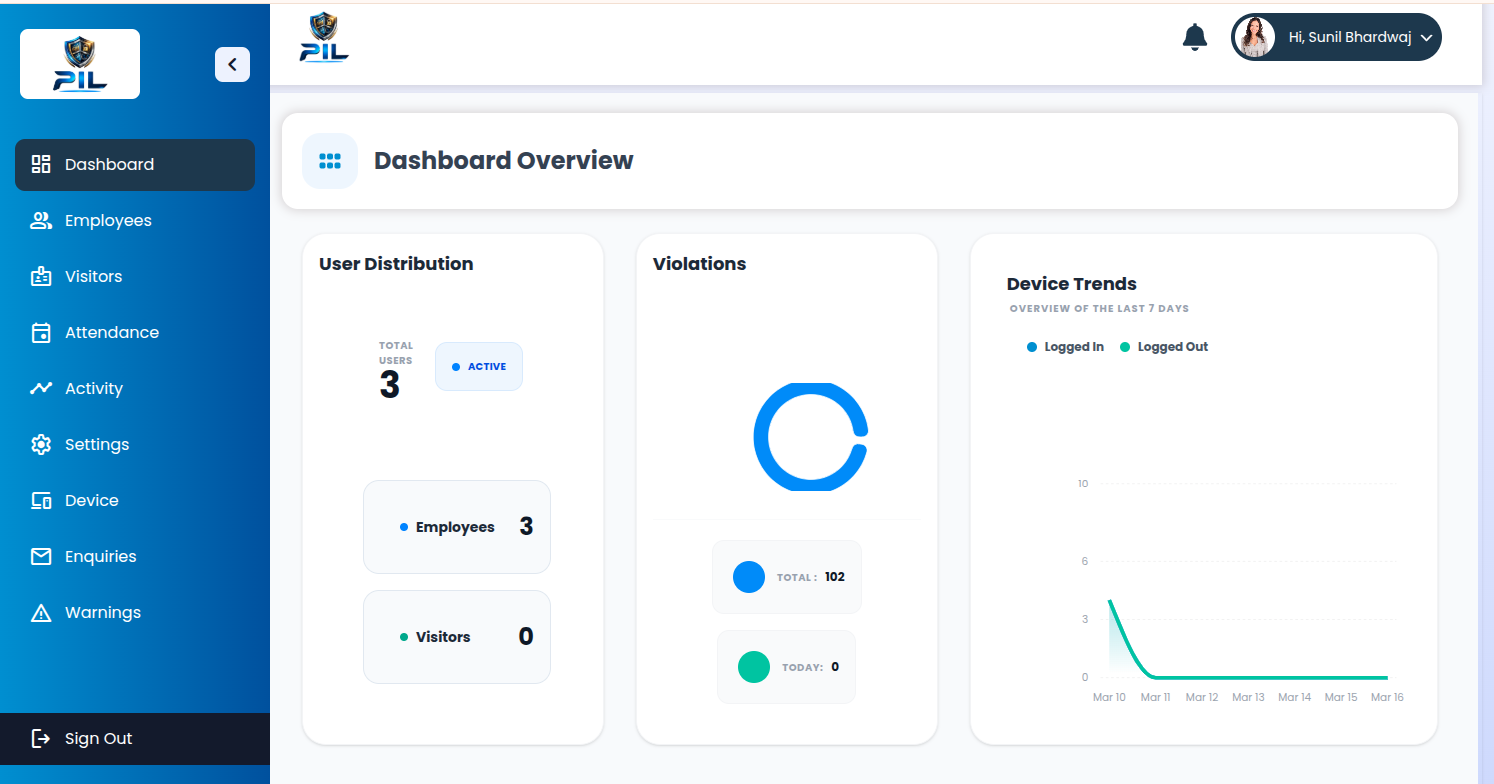
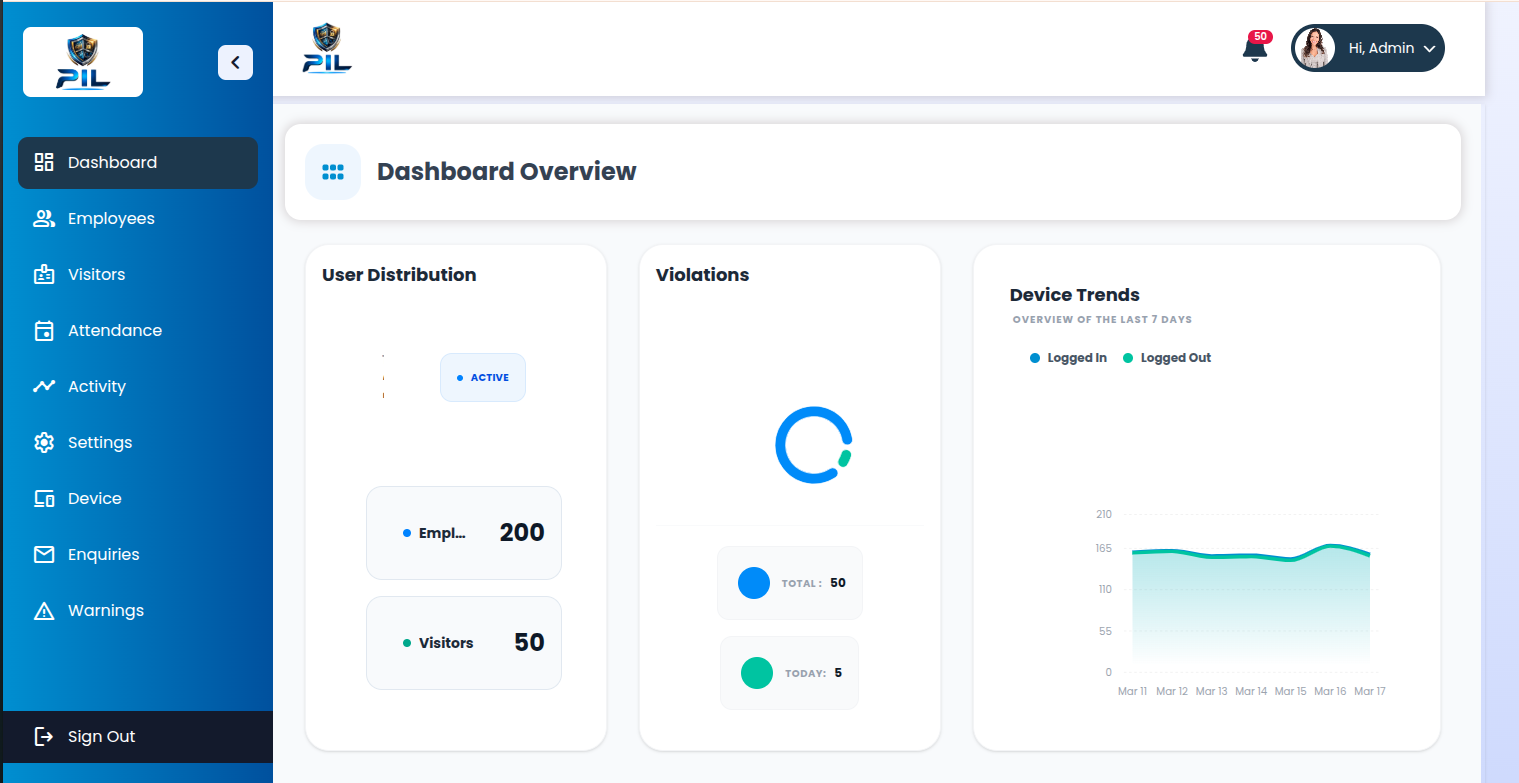
landing page dashboard image updated

diff --git a/client/src/SuperAdmin/Dashboard.js b/client/src/SuperAdmin/Dashboard.js
@@ -64,7 +64,7 @@ const SuperAdminDashboard = () => {
   }, 0);
 
   const deviceTrendsAxisMax = (() => {
-    const target = Math.max(1, maxDeviceTrendsValue * 2);
+    const target = Math.max(1, maxDeviceTrendsValue * 1.2);
     if (target <= 10) return 10;
     if (target <= 16) return 16;
     if (target <= 20) return 20;
@@ -100,19 +100,19 @@ const SuperAdminDashboard = () => {
             {/* User Statistics Card */}
             <div className="lg:col-span-4 bg-white p-4 sm:p-5 rounded-3xl shadow-sm border border-gray-100 flex flex-col min-h-[260px] overflow-hidden">
               <h3 className="text-lg font-bold text-gray-800 mb-2">User Distribution</h3>
-              <div className="flex-1 flex flex-col gap-3 py-1 justify-center">
-                <div className="flex flex-row items-center justify-between px-1 gap-3 mb-1">
+              <div className="flex flex-col gap-4 py-1 justify-start">
+                <div className="flex flex-row items-center justify-between px-1 gap-1 sm:gap-3">
                   <div className="flex flex-col min-w-0">
-                    <span className="text-[10px] text-gray-400 font-black uppercase tracking-wider mb-0.5">
+                    <span className="text-[10px] sm:text-xs text-gray-400 font-black uppercase tracking-wider mb-0.5 truncate">
                       Total Users
                     </span>
-                    <h4 className="text-3xl sm:text-4xl font-black text-gray-900 leading-none">
+                    <h4 className="text-2xl sm:text-3xl lg:text-4xl font-black text-gray-900 leading-none truncate">
                       {(summary.employees || 0) + (summary.visitors || 0)}
                     </h4>
                   </div>
                   <div className="flex items-center shrink-0">
-                    <div className="flex items-center gap-1.5 sm:gap-2 bg-blue-50 px-2 sm:px-3 py-1 sm:py-1.5 rounded-xl border border-blue-100">
-                      <span className="w-1.5 sm:w-2 h-1.5 sm:h-2 rounded-full bg-blue-500"></span>
+                    <div className="flex items-center gap-1 sm:gap-2 bg-blue-50 px-2 py-1 rounded-xl border border-blue-100">
+                      <span className="w-1.5 h-1.5 rounded-full bg-blue-500 shrink-0"></span>
                       <span className="text-[9px] sm:text-[10px] text-blue-700 font-black uppercase tracking-wide">
                         Active
                       </span>
@@ -120,27 +120,27 @@ const SuperAdminDashboard = () => {
                   </div>
                 </div>
 
-                <div className="flex flex-col gap-2 w-full">
-                  <div className="bg-slate-50 px-3 py-2.5 rounded-2xl border border-slate-200 flex justify-between items-center gap-3 overflow-x-auto md:overflow-hidden">
-                    <div className="flex items-center gap-2 shrink-0">
-                      <span className="w-2 h-2 rounded-full bg-blue-500 shrink-0"></span>
-                      <span className="text-xs sm:text-sm text-gray-800 font-bold whitespace-nowrap">
+                <div className="flex flex-col gap-2 w-full mt-2">
+                  <div className="w-full bg-slate-50 px-2 sm:px-3 py-2 sm:py-2.5 rounded-2xl border border-slate-200 flex justify-between items-center gap-1.5 sm:gap-3 overflow-hidden">
+                    <div className="flex items-center gap-1.5 sm:gap-2 min-w-0">
+                      <span className="w-1.5 h-1.5 sm:w-2 sm:h-2 rounded-full bg-blue-500 shrink-0"></span>
+                      <span className="text-[11px] sm:text-sm text-gray-800 font-bold truncate">
                         Employees
                       </span>
                     </div>
-                    <span className="text-xl sm:text-2xl font-black text-gray-900 leading-none tabular-nums shrink-0">
+                    <span className="text-lg sm:text-xl lg:text-2xl font-black text-gray-900 leading-none tabular-nums shrink-0">
                       {summary.employees || 0}
                     </span>
                   </div>
 
-                  <div className="bg-slate-50 px-3 py-2.5 rounded-2xl border border-slate-200 flex justify-between items-center gap-3 overflow-x-auto md:overflow-hidden">
-                    <div className="flex items-center gap-2 shrink-0">
-                      <span className="w-2 h-2 rounded-full bg-[#00A88A] shrink-0"></span>
-                      <span className="text-xs sm:text-sm text-gray-800 font-bold whitespace-nowrap">
+                  <div className="w-full bg-slate-50 px-2 sm:px-3 py-2 sm:py-2.5 rounded-2xl border border-slate-200 flex justify-between items-center gap-1.5 sm:gap-3 overflow-hidden">
+                    <div className="flex items-center gap-1.5 sm:gap-2 min-w-0">
+                      <span className="w-1.5 h-1.5 sm:w-2 sm:h-2 rounded-full bg-[#00A88A] shrink-0"></span>
+                      <span className="text-[11px] sm:text-sm text-gray-800 font-bold truncate">
                         Visitors
                       </span>
                     </div>
-                    <span className="text-xl sm:text-2xl font-black text-gray-900 leading-none tabular-nums shrink-0">
+                    <span className="text-lg sm:text-xl lg:text-2xl font-black text-gray-900 leading-none tabular-nums shrink-0">
                       {summary.visitors || 0}
                     </span>
                   </div>
@@ -203,62 +203,62 @@ const SuperAdminDashboard = () => {
               <div className="flex-1 w-full min-h-[250px] pr-1 mt-2 overflow-x-auto overflow-y-hidden md:overflow-hidden">
                 <div className="h-full w-full min-w-[500px] md:min-w-0">
                   <ResponsiveContainer width="100%" height="100%">
-                  <AreaChart
-                    data={summary.last7DaysAttendance}
-                    margin={{ top: 10, right: 12, left: -36, bottom: 0 }}
-                  >
-                    <defs>
-                      <linearGradient id="colorLoggedIn" x1="0" y1="0" x2="0" y2="1">
-                        <stop offset="5%" stopColor="#018DD4" stopOpacity={0.15} />
-                        <stop offset="95%" stopColor="#018DD4" stopOpacity={0} />
-                      </linearGradient>
-                      <linearGradient id="colorLoggedOut" x1="0" y1="0" x2="0" y2="1">
-                        <stop offset="5%" stopColor="#00C49F" stopOpacity={0.15} />
-                        <stop offset="95%" stopColor="#00C49F" stopOpacity={0} />
-                      </linearGradient>
-                    </defs>
-                    <CartesianGrid strokeDasharray="3 3" vertical={false} stroke="#f0f0f0" />
-                    <XAxis
-                      dataKey="name"
-                      axisLine={false}
-                      tickLine={false}
-                      tick={{ fill: '#9ca3af', fontSize: 12 }}
-                      dy={10}
-                      interval="preserveStartEnd"
-                      padding={{ left: 10, right: 10 }}
-                    />
-                    <YAxis
-                      axisLine={false}
-                      tickLine={false}
-                      tick={{ fill: '#9ca3af', fontSize: 12 }}
-                      domain={[0, deviceTrendsAxisMax]}
-                      allowDecimals={false}
-                      width={30}
-                      tickMargin={8}
-                    />
-                    <BarTooltip
-                      contentStyle={{ borderRadius: '16px', border: 'none', boxShadow: '0 10px 15px -3px rgba(0,0,0,0.1)' }}
-                    />
-                    <Area
-                      type="monotone"
-                      dataKey="loggedIn"
-                      name="Logged In"
-                      stroke="#018DD4"
-                      strokeWidth={4}
-                      fillOpacity={1}
-                      fill="url(#colorLoggedIn)"
-                    />
-                    <Area
-                      type="monotone"
-                      dataKey="loggedOut"
-                      name="Logged Out"
-                      stroke="#00C49F"
-                      strokeWidth={4}
-                      fillOpacity={1}
-                      fill="url(#colorLoggedOut)"
-                    />
-                  </AreaChart>
-                </ResponsiveContainer>
+                    <AreaChart
+                      data={summary.last7DaysAttendance}
+                      margin={{ top: 10, right: 12, left: 0, bottom: 0 }}
+                    >
+                      <defs>
+                        <linearGradient id="colorLoggedIn" x1="0" y1="0" x2="0" y2="1">
+                          <stop offset="5%" stopColor="#018DD4" stopOpacity={0.15} />
+                          <stop offset="95%" stopColor="#018DD4" stopOpacity={0} />
+                        </linearGradient>
+                        <linearGradient id="colorLoggedOut" x1="0" y1="0" x2="0" y2="1">
+                          <stop offset="5%" stopColor="#00C49F" stopOpacity={0.15} />
+                          <stop offset="95%" stopColor="#00C49F" stopOpacity={0} />
+                        </linearGradient>
+                      </defs>
+                      <CartesianGrid strokeDasharray="3 3" vertical={false} stroke="#f0f0f0" />
+                      <XAxis
+                        dataKey="name"
+                        axisLine={false}
+                        tickLine={false}
+                        tick={{ fill: '#9ca3af', fontSize: 12 }}
+                        dy={10}
+                        interval="preserveStartEnd"
+                        padding={{ left: 10, right: 10 }}
+                      />
+                      <YAxis
+                        axisLine={false}
+                        tickLine={false}
+                        tick={{ fill: '#9ca3af', fontSize: 12 }}
+                        domain={[0, deviceTrendsAxisMax]}
+                        allowDecimals={false}
+                        width={30}
+                        tickMargin={8}
+                      />
+                      <BarTooltip
+                        contentStyle={{ borderRadius: '16px', border: 'none', boxShadow: '0 10px 15px -3px rgba(0,0,0,0.1)' }}
+                      />
+                      <Area
+                        type="monotone"
+                        dataKey="loggedIn"
+                        name="Logged In"
+                        stroke="#018DD4"
+                        strokeWidth={4}
+                        fillOpacity={1}
+                        fill="url(#colorLoggedIn)"
+                      />
+                      <Area
+                        type="monotone"
+                        dataKey="loggedOut"
+                        name="Logged Out"
+                        stroke="#00C49F"
+                        strokeWidth={4}
+                        fillOpacity={1}
+                        fill="url(#colorLoggedOut)"
+                      />
+                    </AreaChart>
+                  </ResponsiveContainer>
                 </div>
               </div>
             </div>
